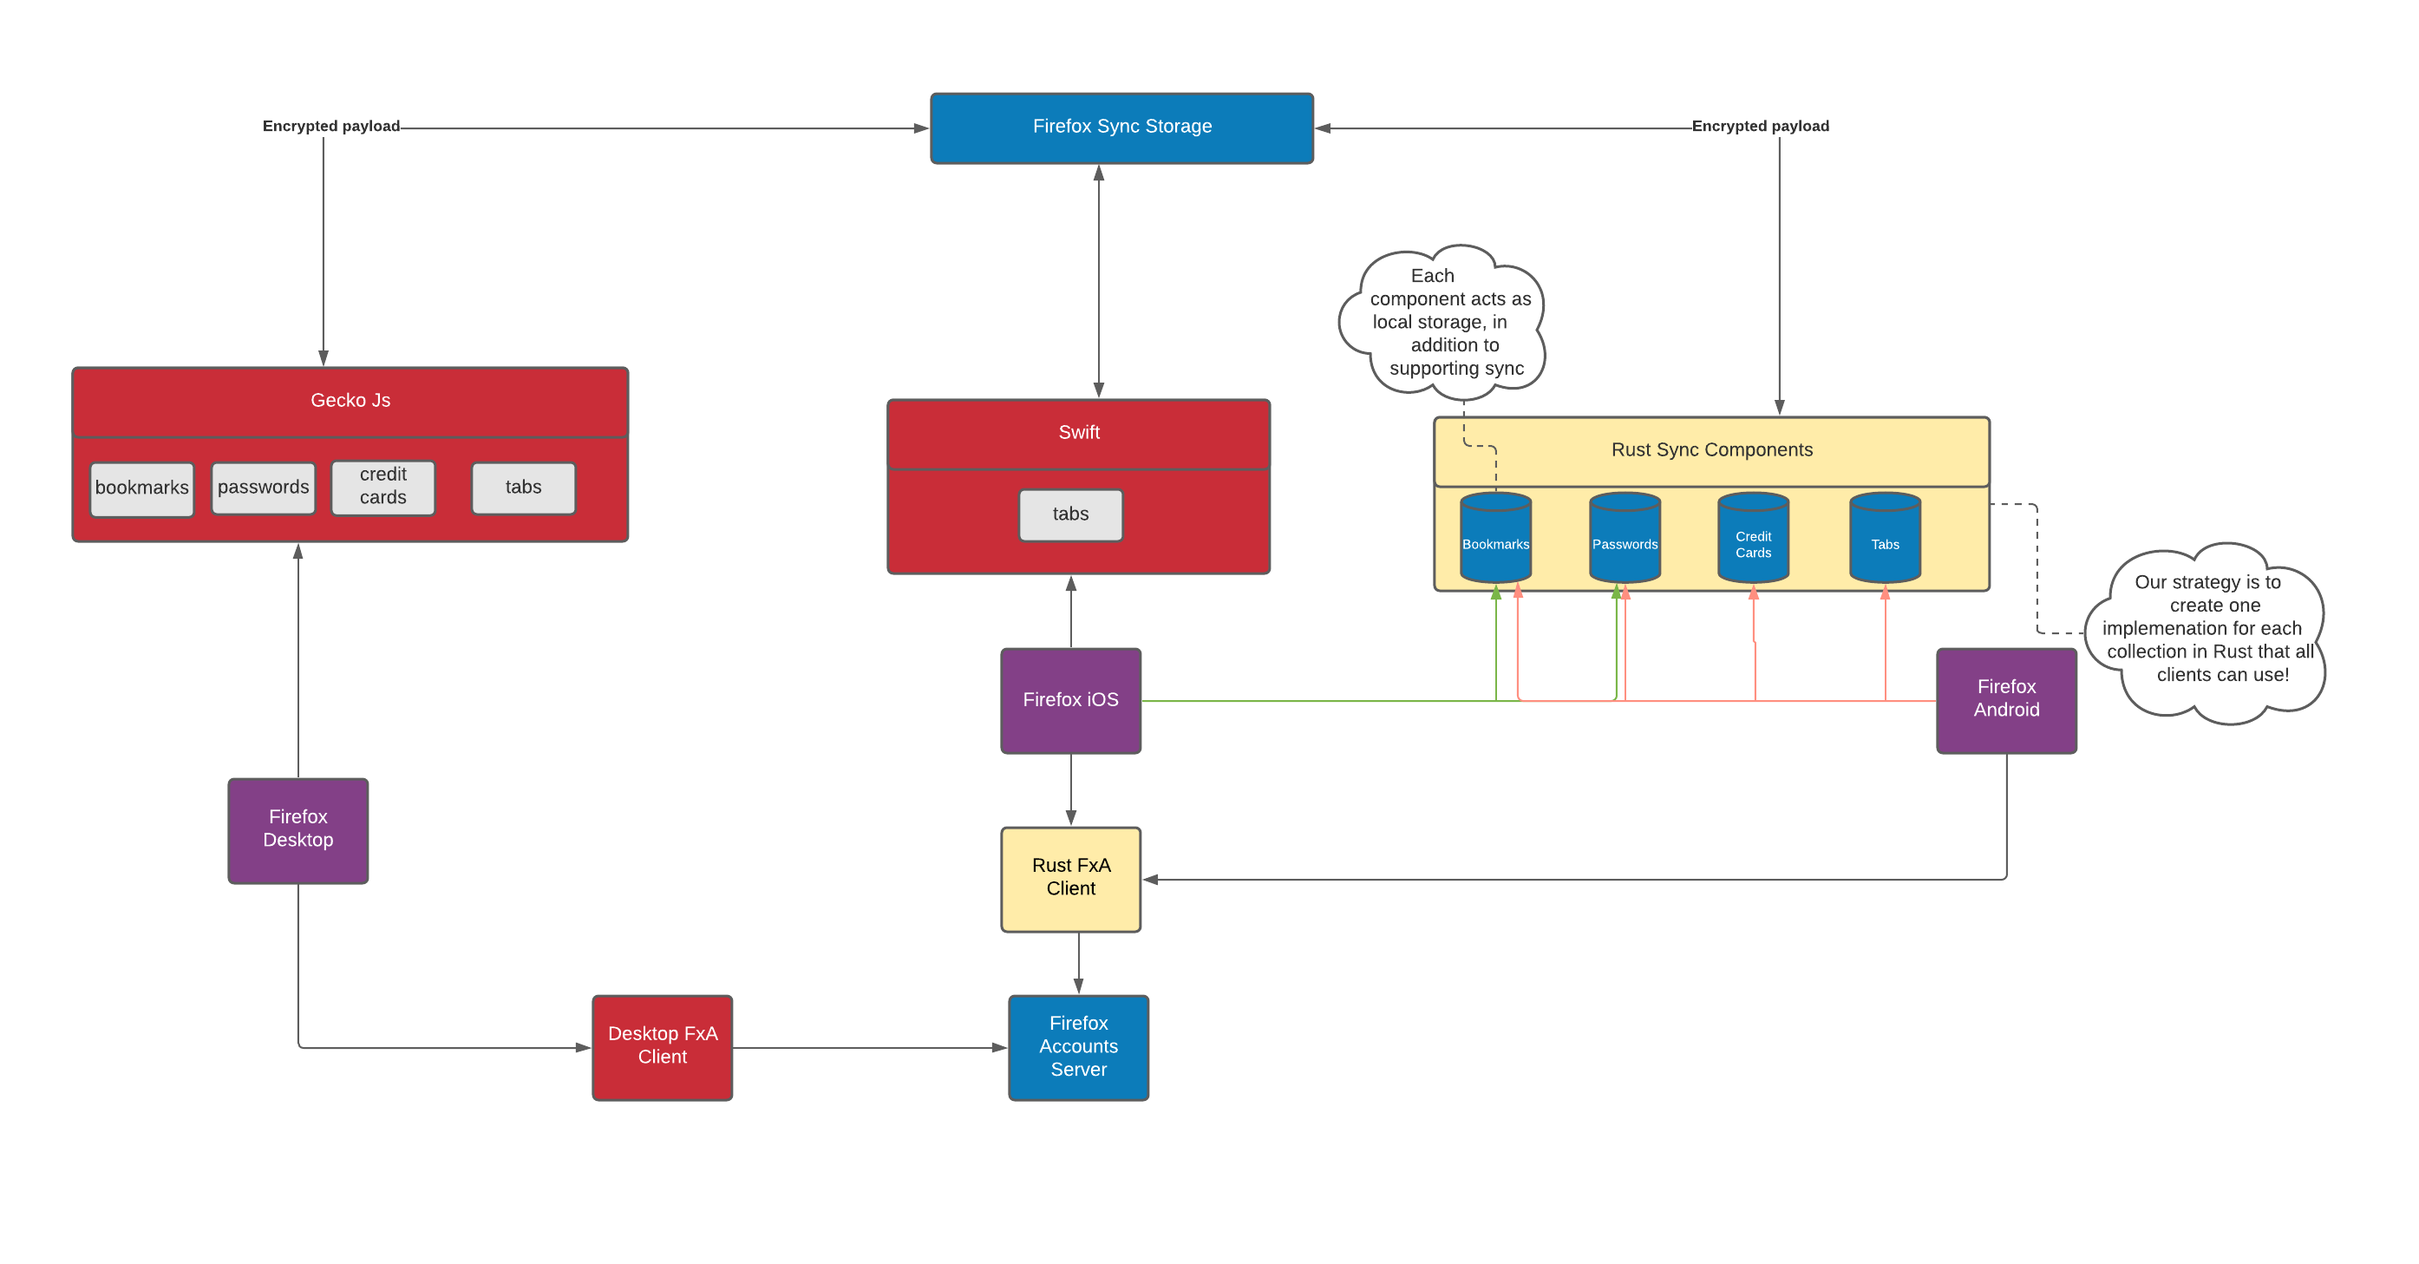
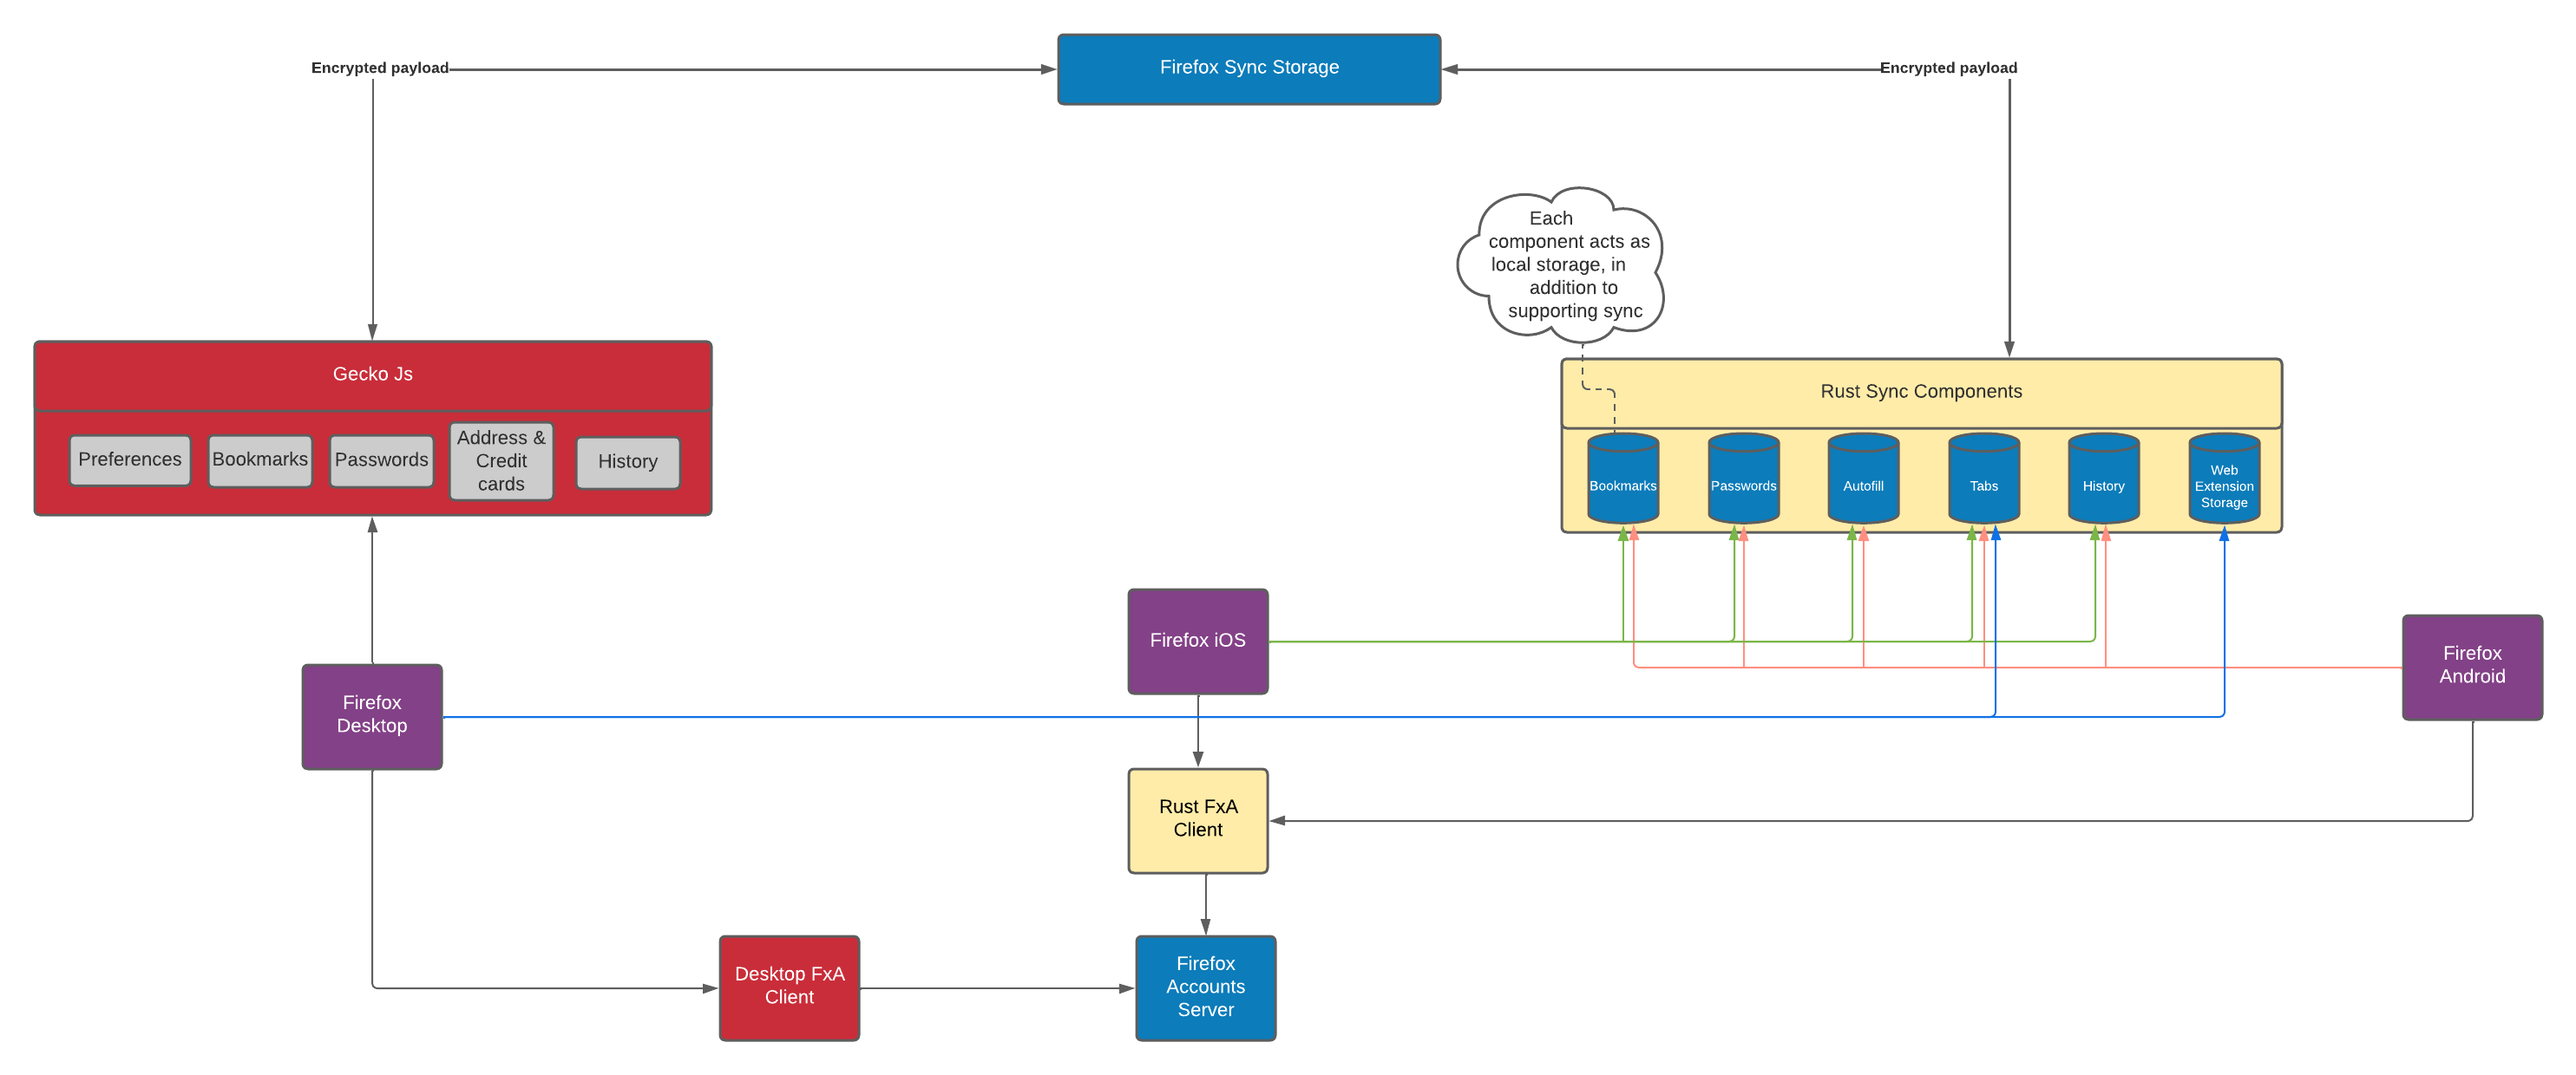
Updated components strategy doc

diff --git a/docs/design/components-strategy.md b/docs/design/components-strategy.md
@@ -26,9 +26,8 @@ would need to be modified in all implementations and the likelihood of errors wa
 
 
 ### Now: Sync is starting to streamline its components
-Currently, we are in the process of migrating many of the sync implementation to use our Rust Component strategy.
-Fenix primarily uses our Rust Components and iOS has some integrated as well. Additionally, Firefox Desktop also uses
-one Rust component (Web Extension Storage).
+We have updated much of our sync implementation to use our Rust Components strategy on mobile. Additionally, Firefox Desktop also uses
+two Rust components (Tabs and Web Extension Storage).
 
 The Rust components not only unify the different implementations of sync, they also provide a convenient local storage for the apps.
 In other words, the apps can use the components for storage, with or without syncing to the server.
@@ -39,9 +38,9 @@ The following table has the status of each of our sync Rust Components
 
 | Application\Component | Bookmarks | History | Tabs | Passwords | Autofill | Web Extension Storage | FxA Client |
 |-----------------------|-----------|---------|------|-----------|----------|-----------------------|------------|
-| Fenix                 | ✔         | ✔       | ✔    | ✔         | ✔        |                       | ✔          |
-| Firefox iOS           | ✔         |         | ✔    | ✔         |          |                       | ✔          |
-| Firefox Desktop       |           |         |      |           |          | ✔                     |            |
+| Fenix                 | ✔        | ✔      | ✔   | ✔        | ✔       |                       | ✔         |
+| Firefox iOS           | ✔        | ✔      | ✔   | ✔        | ✔       |                       | ✔         |
+| Firefox Desktop       |           |         | ✔   |           |          | ✔                    |            |
 | Focus                 |           |         |      |           |          |                       |            |
 
 ### Future: Only one implementation for each sync engine

diff --git a/CHANGELOG.md b/CHANGELOG.md
@@ -1,5 +1,10 @@
 # v145.0 (In progress)
 
+## ✨ What's New ✨
+
+### Docs
+- Updated the components strategy doc to better reflect the current state of application services. ([#6991](https://github.com/mozilla/application-services/pull/6991))
+
 [Full Changelog](In progress)
 
 ### Swift
